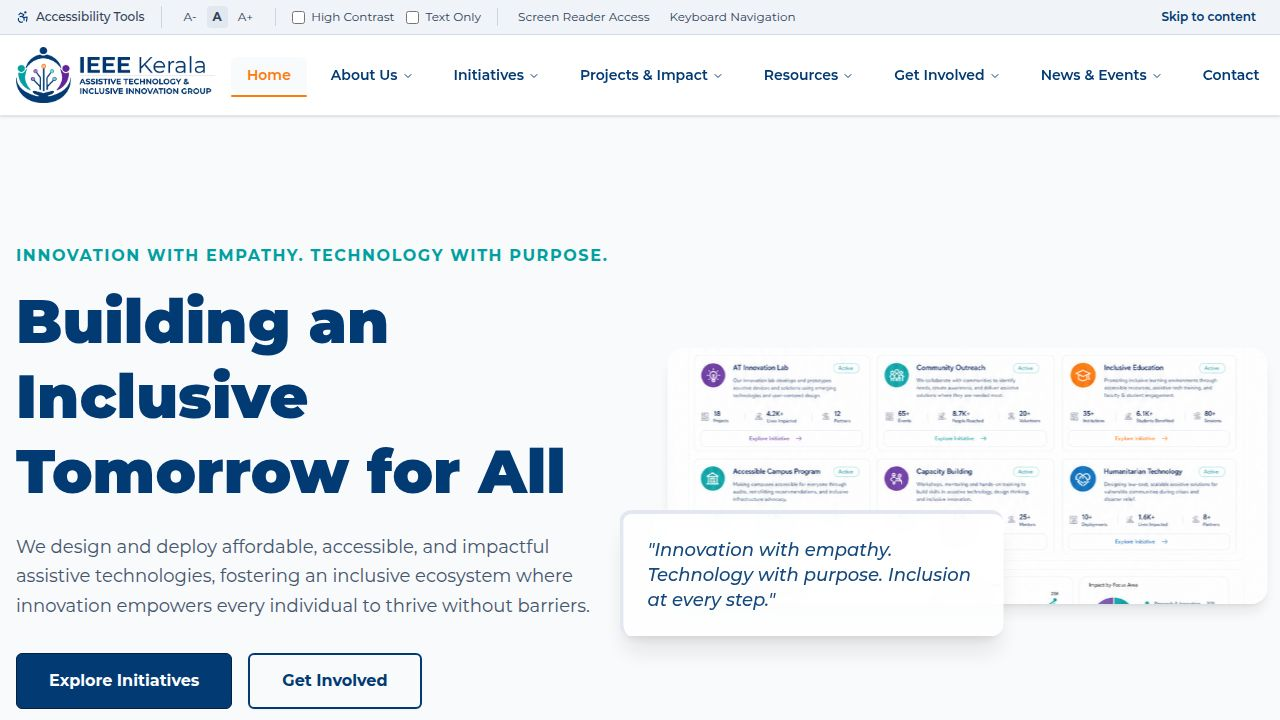
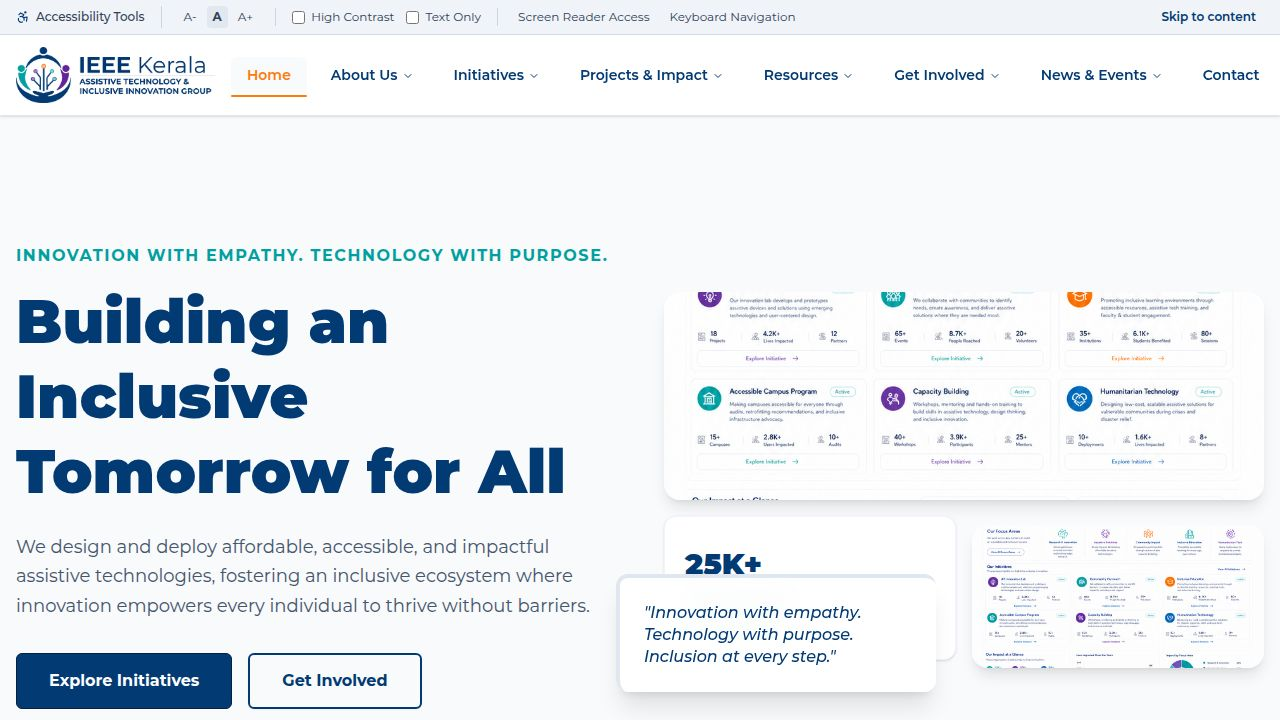
Update website navigation and event filtering functionality
Refactor `news-events.tsx` to implement event filtering by category and conditionally display the "Featured Event" section. Update social media links on `contact.tsx` and `about.tsx`. Adjust hero image and statistics display on `home.tsx`. Enhance search and filtering on `resources.tsx`.

Replit-Commit-Author: Agent
Replit-Commit-Session-Id: 2c4a990c-b965-4f04-bb8c-b5c915f5c076
Replit-Commit-Checkpoint-Type: full_checkpoint
Replit-Commit-Event-Id: 7ed69565-2e47-4e0a-94ea-ae3e3f655daa
Replit-Commit-Screenshot-Url: https://storage.googleapis.com/screenshot-production-us-central1/afb73242-c991-4c75-a3fb-5fe7de8bc92a/2c4a990c-b965-4f04-bb8c-b5c915f5c076/votItdi
Replit-Helium-Checkpoint-Created: true

diff --git a/artifacts/ieee-atiig/src/pages/resources.tsx b/artifacts/ieee-atiig/src/pages/resources.tsx
@@ -1,3 +1,4 @@
+import { useState } from "react";
 import { Layout } from "@/components/Layout";
 import { Button } from "@/components/ui/button";
 import { Input } from "@/components/ui/input";
@@ -6,7 +7,19 @@ import { Search, FileText, Download, PlayCircle, Filter, BookOpen, ExternalLink,
 
 import resourcesHeroImg from "@assets/ChatGPT_Image_May_2,_2026,_09_48_10_PM_(7)_1777748003996.png";
 
+const topicSections: Record<string, string[]> = {
+  guides:    ["All Topics", "Assistive Technology", "Inclusive Design", "Education"],
+  research:  ["All Topics", "Research", "Assistive Technology"],
+  videos:    ["All Topics", "Assistive Technology", "Inclusive Design", "Education"],
+  standards: ["All Topics", "Policy & Standards"],
+};
+
 export default function ResourcesPage() {
+  const [activeTopic, setActiveTopic] = useState("All Topics");
+  const [searchQuery, setSearchQuery] = useState("");
+
+  const showSection = (key: string) => topicSections[key].includes(activeTopic);
+
   return (
     <Layout>
       {/* Hero */}
@@ -39,18 +52,23 @@ export default function ResourcesPage() {
                 placeholder="Search resources, publications, or topics..."
                 aria-label="Search resources, publications, or topics"
                 className="pl-12 h-14 bg-white border-slate-200 text-lg shadow-sm"
+                value={searchQuery}
+                onChange={e => setSearchQuery(e.target.value)}
               />
             </div>
-            <Button className="h-14 px-8 bg-orange hover:bg-orange/90 text-white font-bold text-base shrink-0">Search</Button>
+            <Button onClick={() => setSearchQuery("")} className="h-14 px-8 bg-orange hover:bg-orange/90 text-white font-bold text-base shrink-0">
+              {searchQuery ? "Clear" : "Search"}
+            </Button>
           </div>
           
           <div className="flex overflow-x-auto pb-2 mt-6 gap-2 hide-scrollbar items-center">
             <span className="text-sm font-bold text-slate-400 uppercase mr-2">Filter:</span>
-            {["All Topics", "Assistive Technology", "Inclusive Design", "Research", "Policy & Standards", "Education"].map((tab, i) => (
+            {["All Topics", "Assistive Technology", "Inclusive Design", "Research", "Policy & Standards", "Education"].map((tab) => (
               <button
                 key={tab}
+                onClick={() => setActiveTopic(tab)}
                 className={`px-5 py-2 rounded-full font-bold text-sm whitespace-nowrap transition-colors ${
-                  i === 0 
+                  activeTopic === tab
                     ? "bg-navy text-white" 
                     : "bg-white text-slate-600 border border-slate-200 hover:bg-slate-100"
                 }`}
@@ -58,7 +76,7 @@ export default function ResourcesPage() {
                 {tab}
               </button>
             ))}
-            <Button variant="ghost" className="text-navy font-bold ml-auto shrink-0"><Filter className="w-4 h-4 mr-2" /> More Filters</Button>
+            <Button variant="ghost" onClick={() => setActiveTopic("All Topics")} className="text-navy font-bold ml-auto shrink-0"><Filter className="w-4 h-4 mr-2" /> Reset</Button>
           </div>
         </div>
       </section>
@@ -71,7 +89,7 @@ export default function ResourcesPage() {
             <div className="lg:col-span-8 lg:col-start-1 xl:col-span-9">
               
               {/* Guides & Toolkits */}
-              <div id="guides" className="mb-20 scroll-mt-32">
+              {showSection("guides") && <div id="guides" className="mb-20 scroll-mt-32">
                 <div className="flex justify-between items-end mb-8 border-b border-slate-100 pb-4">
                   <h2 className="text-3xl font-black text-navy flex items-center"><BookOpen className="mr-3 text-orange w-8 h-8" /> Guides & Toolkits</h2>
                   <Button variant="link" className="text-navy font-bold hover:text-orange">View all guides →</Button>
@@ -97,10 +115,10 @@ export default function ResourcesPage() {
                     </div>
                   ))}
                 </div>
-              </div>
+              </div>}
 
               {/* Research & Publications */}
-              <div id="research" className="mb-20 scroll-mt-32">
+              {showSection("research") && <div id="research" className="mb-20 scroll-mt-32">
                 <div className="flex justify-between items-end mb-8 border-b border-slate-100 pb-4">
                   <h2 className="text-3xl font-black text-navy flex items-center"><FileText className="mr-3 text-teal w-8 h-8" /> Research & Publications</h2>
                   <Button variant="link" className="text-navy font-bold hover:text-orange">View all →</Button>
@@ -131,10 +149,10 @@ export default function ResourcesPage() {
                     </div>
                   ))}
                 </div>
-              </div>
+              </div>}
 
               {/* Videos & Webinars */}
-              <div id="videos" className="mb-20 scroll-mt-32">
+              {showSection("videos") && <div id="videos" className="mb-20 scroll-mt-32">
                 <div className="flex justify-between items-end mb-8 border-b border-slate-100 pb-4">
                   <h2 className="text-3xl font-black text-navy flex items-center"><PlayCircle className="mr-3 text-purple w-8 h-8" /> Videos & Webinars</h2>
                 </div>
@@ -157,10 +175,10 @@ export default function ResourcesPage() {
                     </div>
                   ))}
                 </div>
-              </div>
+              </div>}
 
               {/* Standards */}
-              <div id="standards" className="scroll-mt-32">
+              {showSection("standards") && <div id="standards" className="scroll-mt-32">
                 <div className="flex justify-between items-end mb-8 border-b border-slate-100 pb-4">
                   <h2 className="text-3xl font-black text-navy flex items-center"><FileText className="mr-3 text-navy w-8 h-8" /> Standards & Guidelines</h2>
                 </div>
@@ -178,7 +196,7 @@ export default function ResourcesPage() {
                     </div>
                   ))}
                 </div>
-              </div>
+              </div>}
 
             </div>
 
@@ -195,8 +213,8 @@ export default function ResourcesPage() {
                       { label: "Research & Publications", href: "#research" },
                       { label: "Standards & Guidelines", href: "#standards" },
                       { label: "Videos & Webinars", href: "#videos" },
-                      { label: "Tools & Templates", href: "#" },
-                      { label: "Events & Trainings", href: "#" }
+                      { label: "Guides & Toolkits", href: "#guides" },
+                      { label: "Events & Trainings", href: "/news-events" }
                     ].map((link, i) => (
                       <li key={i}>
                         <a href={link.href} className={`block py-2 text-sm font-medium ${i === 0 ? "text-orange font-bold" : "text-slate-600 hover:text-navy hover:translate-x-1 transition-all"}`}>
@@ -206,9 +224,9 @@ export default function ResourcesPage() {
                     ))}
                   </ul>
                   <div className="mt-6 pt-4 border-t border-slate-200">
-                    <a href="#" className="text-teal font-bold text-sm flex items-center hover:underline">
+                    <Link to="/contact" className="text-teal font-bold text-sm flex items-center hover:underline">
                       Suggest a Resource <ArrowRight className="ml-1 w-3 h-3" />
-                    </a>
+                    </Link>
                   </div>
                 </div>
 
@@ -247,7 +265,7 @@ export default function ResourcesPage() {
                   <span className="bg-orange text-white text-[10px] font-black uppercase tracking-widest px-2 py-1 rounded inline-block mb-3">Featured</span>
                   <h3 className="font-bold text-lg leading-snug mb-2">Inclusive Innovation: A Framework for Impact</h3>
                   <p className="text-white/70 text-xs mb-6">White paper detailing our systemic approach to accessible design.</p>
-                  <a href="#" className="font-bold text-sm inline-flex items-center hover:underline">
+                  <a href="#research" className="font-bold text-sm inline-flex items-center hover:underline">
                     Read Now <ArrowRight className="ml-1 w-3 h-3" />
                   </a>
                 </div>

diff --git a/artifacts/ieee-atiig/src/pages/news-events.tsx b/artifacts/ieee-atiig/src/pages/news-events.tsx
@@ -11,8 +11,20 @@ import newsVariantImg from "@assets/ChatGPT_Image_May_2,_2026,_09_48_22_PM_(7)_1
 import heroImg from "@assets/ChatGPT_Image_May_2,_2026,_09_48_09_PM_(1)_1777748003994.png";
 import teamImg from "@assets/ChatGPT_Image_May_2,_2026,_09_48_21_PM_(1)_1777748003996.png";
 
+const allEvents = [
+  { date: "MAY 15", title: "AT Innovation Hackathon 2025", loc: "UL Cyberpark, Kozhikode, Kerala", time: "10:00 AM-4:00 PM IST", active: true,  category: "Hackathons" },
+  { date: "MAY 28", title: "Webinar: Inclusive Tech for All",          loc: "Online (Zoom)",                time: "6:00 PM-7:30 PM IST",   active: false, category: "Webinars"   },
+  { date: "JUN 10", title: "Community Accessibility Audit Drive",      loc: "Kochi, Kerala",               time: "9:00 AM-1:00 PM IST",   active: false, category: "Community"  },
+  { date: "JUN 22", title: "Inclusive Education Workshop",             loc: "Thiruvananthapuram",          time: "10:30 AM-1:00 PM IST",  active: false, category: "Workshops"  },
+];
+
 export default function NewsEventsPage() {
-  const [date, setDate] = useState<Date | undefined>(new Date(2025, 4, 15)); // May 15, 2025
+  const [date, setDate] = useState<Date | undefined>(new Date(2025, 4, 15));
+  const [activeCategory, setActiveCategory] = useState("All Events");
+
+  const filteredEvents = activeCategory === "All Events"
+    ? allEvents
+    : allEvents.filter(e => e.category === activeCategory);
 
   return (
     <Layout>
@@ -60,12 +72,13 @@ export default function NewsEventsPage() {
               </h2>
               
               <div className="space-y-4">
-                {[
-                  { date: "MAY 15", title: "AT Innovation Hackathon 2025", loc: "UL Cyberpark, Kozhikode, Kerala", time: "10:00 AM-4:00 PM IST", active: true },
-                  { date: "MAY 28", title: "Webinar: Inclusive Tech for All", loc: "Online (Zoom)", time: "6:00 PM-7:30 PM IST", active: false },
-                  { date: "JUN 10", title: "Community Accessibility Audit Drive", loc: "Kochi, Kerala", time: "9:00 AM-1:00 PM IST", active: false },
-                  { date: "JUN 22", title: "Inclusive Education Workshop", loc: "Thiruvananthapuram", time: "10:30 AM-1:00 PM IST", active: false }
-                ].map((evt, i) => (
+                {filteredEvents.length === 0 && (
+                  <div className="text-center py-10">
+                    <p className="text-slate-400 font-medium">No events in this category.</p>
+                    <button onClick={() => setActiveCategory("All Events")} className="mt-2 text-navy font-bold hover:underline text-sm">Show all events</button>
+                  </div>
+                )}
+                {filteredEvents.map((evt, i) => (
                   <div key={i} className={`p-5 rounded-xl border transition-all ${evt.active ? 'border-orange bg-orange/5 shadow-sm' : 'border-slate-200 hover:border-navy bg-white'}`}>
                     <div className="flex gap-4">
                       <div className="w-16 flex-shrink-0 text-center">
@@ -113,8 +126,8 @@ export default function NewsEventsPage() {
               </div>
             </div>
             
-            {/* Featured Event */}
-            <div className="lg:col-span-4">
+            {/* Featured Event — only shown when there are filtered results */}
+            {filteredEvents.length > 0 && <div className="lg:col-span-4">
               <h2 className="text-2xl font-black text-navy mb-6">Featured Event</h2>
               <div className="bg-navy text-white rounded-2xl p-8 shadow-lg h-full flex flex-col relative overflow-hidden">
                 <div className="absolute -right-10 -top-10 w-40 h-40 bg-orange/20 rounded-full blur-2xl"></div>
@@ -144,7 +157,7 @@ export default function NewsEventsPage() {
                   </Button>
                 </div>
               </div>
-            </div>
+            </div>}
             
           </div>
         </div>
@@ -155,8 +168,12 @@ export default function NewsEventsPage() {
         <div className="container mx-auto px-4">
           <div className="flex flex-wrap justify-center gap-3">
             <span className="text-slate-500 font-bold self-center mr-2">Browse by:</span>
-            {["All Events", "Webinars", "Workshops", "Hackathons", "Community", "Conferences"].map((cat, i) => (
-              <button key={i} className={`px-5 py-2 rounded-full font-bold text-sm transition-colors ${i === 0 ? "bg-navy text-white shadow-md" : "bg-white text-slate-600 border border-slate-200 hover:bg-slate-100"}`}>
+            {["All Events", "Webinars", "Workshops", "Hackathons", "Community", "Conferences"].map((cat) => (
+              <button
+                key={cat}
+                onClick={() => setActiveCategory(cat)}
+                className={`px-5 py-2 rounded-full font-bold text-sm transition-colors ${activeCategory === cat ? "bg-navy text-white shadow-md" : "bg-white text-slate-600 border border-slate-200 hover:bg-slate-100"}`}
+              >
                 {cat}
               </button>
             ))}
@@ -189,9 +206,9 @@ export default function NewsEventsPage() {
                   <div className="text-xs font-bold text-slate-500 mb-3">{news.date}</div>
                   <h3 className="font-bold text-navy text-lg mb-3 leading-snug group-hover:text-teal transition-colors">{news.title}</h3>
                   <p className="text-slate-600 text-sm mb-6 flex-1 line-clamp-3">{news.desc}</p>
-                  <a href="#" className="text-navy font-bold text-sm inline-flex items-center group-hover:text-orange transition-colors mt-auto">
+                  <Link to="/news-events" className="text-navy font-bold text-sm inline-flex items-center group-hover:text-orange transition-colors mt-auto">
                     Read More <ArrowRight className="ml-1 w-4 h-4" />
-                  </a>
+                  </Link>
                 </div>
               </div>
             ))}

diff --git a/artifacts/ieee-atiig/src/pages/home.tsx b/artifacts/ieee-atiig/src/pages/home.tsx
@@ -126,10 +126,16 @@ export default function HomePage() {
               className="relative"
             >
               <div className="grid grid-cols-2 gap-4">
-                <img src={heroImg} alt="Assistive technology in use" className="rounded-2xl shadow-lg w-full h-64 object-cover col-span-2" />
+                <img src={heroImg} alt="Assistive technology in use" className="rounded-2xl shadow-lg w-full h-52 object-cover col-span-2" />
+                <div className="bg-white rounded-xl shadow-sm border border-slate-100 p-5 flex flex-col justify-center">
+                  <div className="text-3xl font-black text-navy">25K+</div>
+                  <div className="text-sm font-bold text-slate-500 mt-1">Lives Impacted</div>
+                  <div className="text-xs text-teal mt-1.5 font-semibold">Across Kerala</div>
+                </div>
+                <img src={teamImg} alt="ATIIG team collaboration" className="rounded-2xl shadow-lg w-full h-36 object-cover translate-y-2" />
               </div>
-              <div className="absolute -bottom-8 -left-8 md:-left-12 bg-white/90 backdrop-blur-md p-6 rounded-xl shadow-xl max-w-sm border-l-4 border-l-orange border-t-4 border-t-teal">
-                <p className="italic text-navy font-medium text-lg leading-snug">
+              <div className="absolute -bottom-8 -left-8 md:-left-12 bg-white/90 backdrop-blur-md p-6 rounded-xl shadow-xl max-w-xs border-l-4 border-l-orange border-t-4 border-t-teal">
+                <p className="italic text-navy font-medium leading-snug">
                   "Innovation with empathy. Technology with purpose. Inclusion at every step."
                 </p>
               </div>

diff --git a/artifacts/ieee-atiig/src/pages/contact.tsx b/artifacts/ieee-atiig/src/pages/contact.tsx
@@ -291,16 +291,16 @@ export default function ContactPage() {
                 <p className="text-slate-300 mb-8 relative z-10">Follow our journey and join the conversation on social media.</p>
                 
                 <div className="flex gap-4 relative z-10">
-                  <a href="#" className="bg-white/10 hover:bg-orange hover:-translate-y-1 p-4 rounded-xl transition-all" aria-label="LinkedIn">
+                  <a href="https://www.linkedin.com/company/ieee-kerala-section/" target="_blank" rel="noopener noreferrer" className="bg-white/10 hover:bg-orange hover:-translate-y-1 p-4 rounded-xl transition-all" aria-label="LinkedIn">
                     <FaLinkedin className="w-6 h-6" />
                   </a>
-                  <a href="#" className="bg-white/10 hover:bg-orange hover:-translate-y-1 p-4 rounded-xl transition-all" aria-label="Facebook">
+                  <a href="https://www.facebook.com/IEEEKeralaSection" target="_blank" rel="noopener noreferrer" className="bg-white/10 hover:bg-orange hover:-translate-y-1 p-4 rounded-xl transition-all" aria-label="Facebook">
                     <FaFacebook className="w-6 h-6" />
                   </a>
-                  <a href="#" className="bg-white/10 hover:bg-orange hover:-translate-y-1 p-4 rounded-xl transition-all" aria-label="Instagram">
+                  <a href="https://www.instagram.com/ieee_kerala_section/" target="_blank" rel="noopener noreferrer" className="bg-white/10 hover:bg-orange hover:-translate-y-1 p-4 rounded-xl transition-all" aria-label="Instagram">
                     <FaInstagram className="w-6 h-6" />
                   </a>
-                  <a href="#" className="bg-white/10 hover:bg-orange hover:-translate-y-1 p-4 rounded-xl transition-all" aria-label="YouTube">
+                  <a href="https://www.youtube.com/@IEEEKeralaSection" target="_blank" rel="noopener noreferrer" className="bg-white/10 hover:bg-orange hover:-translate-y-1 p-4 rounded-xl transition-all" aria-label="YouTube">
                     <FaYoutube className="w-6 h-6" />
                   </a>
                 </div>

diff --git a/artifacts/ieee-atiig/src/pages/about.tsx b/artifacts/ieee-atiig/src/pages/about.tsx
@@ -180,7 +180,7 @@ export default function AboutPage() {
                 <div className="flex-1">
                   <h3 className="text-lg font-bold text-navy group-hover:text-orange transition-colors">{person.name}</h3>
                   <p className="text-sm text-slate-500 mb-3">{person.role}</p>
-                  <a href="#" className="inline-flex text-slate-400 hover:text-navy transition-colors">
+                  <a href="https://www.linkedin.com/company/ieee-kerala-section/" target="_blank" rel="noopener noreferrer" className="inline-flex text-slate-400 hover:text-navy transition-colors" aria-label="IEEE Kerala LinkedIn">
                     <FaLinkedin className="w-5 h-5" />
                   </a>
                 </div>